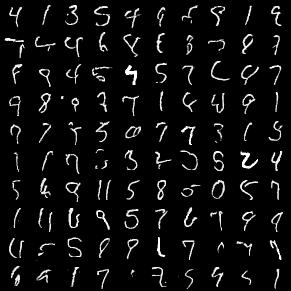
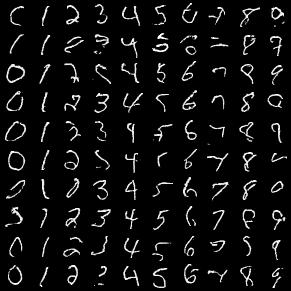
conditional generation

diff --git a/network.py b/network.py
@@ -96,12 +96,17 @@ class GatedBlock(nn.Module):
 
         self.tanh = nn.Tanh()
         self.sigmoid = nn.Sigmoid()
+
+        self.label_embedding = nn.Embedding(10,2*h_dim)
     
     def forward(self,x):
-        v_in,h_in,skip = x[0],x[1],x[2]
-        
+        v_in,h_in,skip,label = x[0],x[1],x[2],x[3]
+
+        label_embedded = self.label_embedding(label).unsqueeze(2).unsqueeze(3)
+
         #vertical
         v_out,v_out_shift = self.v_conv(v_in)
+        v_out += label_embedded
         v_out1,v_out2 = torch.split(v_out,self.h_dim,dim=1)
         v_out = self.tanh(v_out1)*self.sigmoid(v_out2)
 
@@ -109,6 +114,7 @@ class GatedBlock(nn.Module):
         h_out = self.h_conv(h_in)
         v_out_shift = self.v2h(v_out_shift)
         h_out = h_out + v_out_shift
+        h_out += label_embedded
         h_out1,h_out2 = torch.split(h_out,self.h_dim,dim=1)
         h_out = self.tanh(h_out1)*self.sigmoid(h_out2)
 
@@ -117,11 +123,12 @@ class GatedBlock(nn.Module):
         h_out = self.h_fc(h_out)
         h_out = h_out + h_in
 
-        return [v_out,h_out,skip]
+        return [v_out,h_out,skip,label]
 
 class PixelCNN(nn.Module):
     def __init__(self,num_layer,h_dim,k_size,color_bit,*args, **kargs):
         super(PixelCNN, self).__init__(*args, **kargs)
+        self.label_embedding = nn.Embedding(10, h_dim)
         self.casual = CasualBlock(1,h_dim)
         self.layers = []
         for i in range(num_layer):
@@ -129,16 +136,17 @@ class PixelCNN(nn.Module):
         self.gateConv = nn.Sequential(*self.layers)
         self.outConv = nn.Sequential(nn.PReLU(),
             nn.Conv2d(h_dim,h_dim,1,1,0,bias=False),
-            nn.BatchNorm2d(h_dim),
             nn.PReLU())
         
         self.lastConv = nn.Conv2d(h_dim,2**color_bit,1,1,0)
 
-    def forward(self,x):
+    def forward(self,x,label):
         v,h = self.casual(x)
         blank = torch.zeros(x.shape,requires_grad=True).cuda()
-        x = [v,h,blank]
-        _,_,skip = self.gateConv(x)
+        label_embedded = self.label_embedding(label).unsqueeze(2).unsqueeze(3)
+        x = [v,h,blank,label]
+        _,_,skip,_ = self.gateConv(x)
+        skip += label_embedded
         x = self.outConv(skip)
         x = self.lastConv(x)
         return x

diff --git a/train.py b/train.py
@@ -1,6 +1,7 @@
 from utils import *
 from config import *
 from network import PixelCNN
+
 import torch
 import torch.nn as nn
 import torch.nn.functional as F
@@ -32,8 +33,10 @@ for epoch in range(n_epoch):
     for data,label in train_loader:
         iter += 1
         data = data.cuda()
+        label = label.cuda()
+
         input = data
-        output = net(input)
+        output = net(input,label)
 
         target = quantize(data,bit=color_bit).detach()
         target = target.squeeze(1).long()
@@ -55,9 +58,9 @@ for epoch in range(n_epoch):
     with torch.no_grad():
         for data,label in test_loader:
             data = data.cuda()
-
+            label = label.cuda()
             input = data
-            output = net(input)
+            output = net(input,label)
             target = quantize(data,bit=color_bit).detach()
             target = target.squeeze(1).long()
 

diff --git a/test.py b/test.py
@@ -16,8 +16,9 @@ test_loader = testLoader(bs=batch_size)
 for data,label in test_loader:
     data = data.cuda()
     input = data
+    label = label.cuda()
     save_display(input,'sample/input.jpg')
-    output = net(input)
+    output = net(input,label)
     output = torch.argmax(output,dim=1) / (2**color_bit-1)
     output = output.unsqueeze(1)
     save_display(output,'sample/output.jpg')
@@ -25,10 +26,12 @@ for data,label in test_loader:
 
 #Generate via random sampling
 x = torch.zeros(data.shape).cuda()
+label = [i%10 for i in range(100)]
+label = torch.LongTensor(label).cuda()
 for i in range(28):
     print(f'{i+1}/28')
     for j in range(28):
-        output = net(x).detach()
+        output = net(x,label).detach()
         output = F.softmax(output)
         output = quantize(output,bit=color_bit,sample=True).unsqueeze(1)
         x[:,:,i,j] = output[:,:,i,j]

diff --git a/config.py b/config.py
@@ -6,7 +6,7 @@ color_bit = 4
 
 #training
 batch_size = 100
-n_epoch = 10
+n_epoch = 50
 opt_type = 'adam'
 base_lr = 1.0e-3
 weight_decay = 0.01
